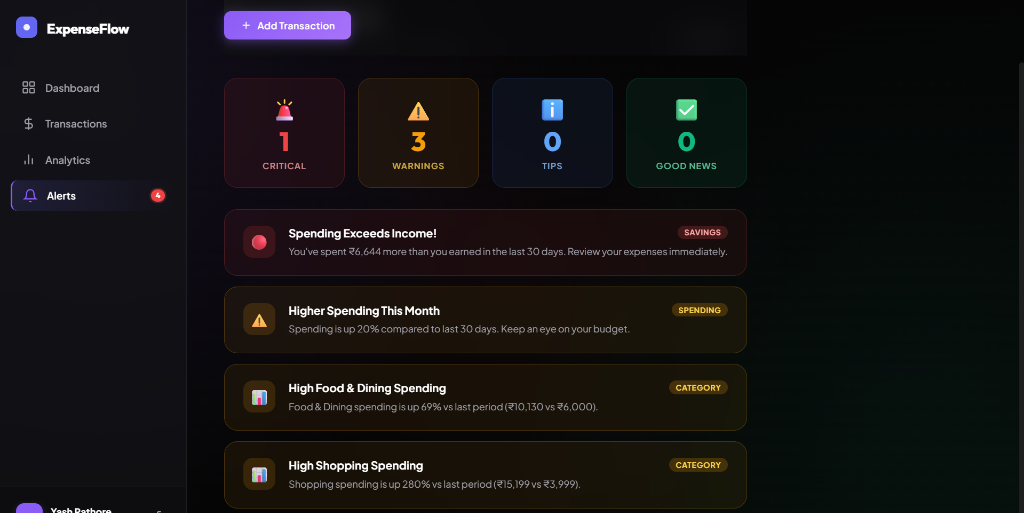
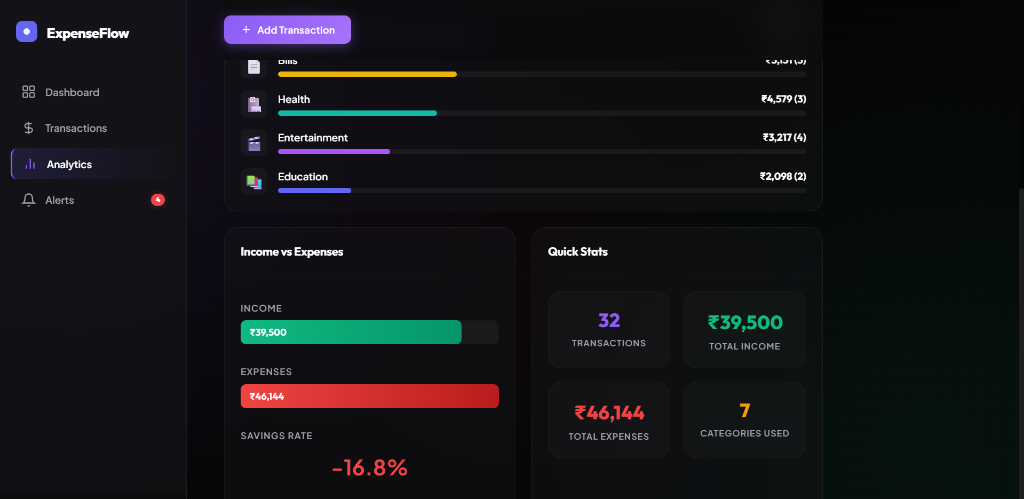
Change gallery to vertical sequential walkthrough

diff --git a/README.md b/README.md
@@ -4,12 +4,21 @@ A full-stack, production-ready personal finance tracker built with **Node.js**, 
 
 **[🚀 View Live Demo](https://expense-tracker-v2-pearl.vercel.app/)**
 
-### 📸 App Screenshots
-| | |
-|---|---|
-| ![Step 0](images/0.png) | ![Step 1](images/1.png) |
-| ![Step 2](images/2.png) | ![Step 3](images/3.png) |
-| ![Step 4](images/4.png) | ![Step 5](images/5.png) |
+### 📸 App Walkthrough
+
+#### 1. Main Dashboard
+![Dashboard Top](images/0.png)
+![Dashboard Bottom](images/1.png)
+
+#### 2. Transaction Management
+![Transactions](images/2.png)
+
+#### 3. Detailed Analytics
+![Analytics Top](images/3.png)
+![Analytics Bottom](images/4.png)
+
+#### 4. Smart Financial Alerts
+![Alerts](images/5.png)
 
 ---
 
